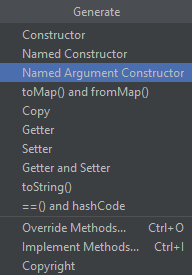
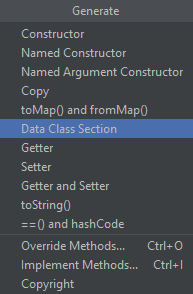
#gmxaPo7H:2 | Documentation updated for upcoming release.

Changed region(s): [[0.0, 0.0873, 1.0, 1.0], [0.75, 0.8145, 0.9688, 0.9309], [0.375, 0.0, 0.625, 0.0582]]

diff --git a/README.md b/README.md
@@ -1,16 +1,17 @@
 # Dart Data Class Plugin
 
-This plugin is created for those who would like to use `copyWith` methods and do not like to write boilerplate.
+![Usage](img/dart-data-usage.gif)
 
-Also has `toMap` and `fromMap` methods generator which is needed for Sqlite.
+This plugin is created for those who would like to have extra data manipulation methods in their data classes without having to write boilerplate code.
 
 ![ScreenShot](img/generate-menu.png)
 
 This plugin can generate the following code:
 - Named Argument Constructor
-- `copyWith`: copies the instance and overrides the given parameters *(you can name specify this method's name in the settings)*
+- `copyWith`: copies the instance and overrides the given parameters
 - `toMap`: converts your class into a map of `Map<String, dynamic>`
 - `fromMap`: constructs your class from a `Map<String, dynamic>` using the named argument constructor
+- all of the above with `toString`, `equals` (`==` operator), `hashcode`
 
 ## Example
 
@@ -26,7 +27,9 @@ class Person {
 }
 ```
 
-Using all generators of this plugin and selecting all properties, this class will look like this:
+Using all generators of this plugin and selecting all properties, this class will look like the following. 
+
+*(Note that some features of this generation can be customized, see details below.)*
 
 
 ```dart
@@ -37,14 +40,49 @@ class Person {
 
   String get name => _firstName + " " + _lastName;
 
-  Person({
-    this.id,
-    this.age,
-    String firstName,
-    String lastName,
+//<editor-fold desc="Data Methods">
+
+
+  const Person({
+    @required this.id,
+    @required this.age,
+    @required String firstName,
+    @required String lastName,
   })
       : _firstName = firstName,
         _lastName = lastName;
+
+
+  @override
+  bool operator ==(Object other) =>
+      identical(this, other) ||
+          (other is Person &&
+              runtimeType == other.runtimeType &&
+              id == other.id &&
+              _firstName == other._firstName &&
+              _lastName == other._lastName &&
+              age == other.age
+          );
+
+
+  @override
+  int get hashCode =>
+      id.hashCode ^
+      _firstName.hashCode ^
+      _lastName.hashCode ^
+      age.hashCode;
+
+
+  @override
+  String toString() {
+    return 'Person{' +
+        ' id: $id,' +
+        ' _firstName: $_firstName,' +
+        ' _lastName: $_lastName,' +
+        ' age: $age,' +
+        '}';
+  }
+
 
   Person copyWith({
     int id,
@@ -52,7 +90,14 @@ class Person {
     String lastName,
     int age,
   }) {
-    return new Person(
+    if ((id == null || identical(id, this.id)) &&
+        (firstName == null || identical(firstName, this._firstName)) &&
+        (lastName == null || identical(lastName, this._lastName)) &&
+        (age == null || identical(age, this.age))) {
+      return this;
+    }
+
+    return Person(
       id: id ?? this.id,
       firstName: firstName ?? this._firstName,
       lastName: lastName ?? this._lastName,
@@ -60,24 +105,35 @@ class Person {
     );
   }
 
-  Map<String, dynamic> toMap() {
+
+  Map<String, dynamic> toMap({
+    String keyMapper(String key),
+  }) {
+    keyMapper ??= (key) => key;
+
     return {
-      'id': this.id,
-      '_firstName': this._firstName,
-      '_lastName': this._lastName,
-      'age': this.age,
+      keyMapper('id'): this.id,
+      keyMapper('_firstName'): this._firstName,
+      keyMapper('_lastName'): this._lastName,
+      keyMapper('age'): this.age,
     };
   }
 
-  factory Person.fromMap(Map<String, dynamic> map) {
-    return new Person(
-      id: map['id'],
-      firstName: map['_firstName'],
-      lastName: map['_lastName'],
-      age: map['age'],
+  factory Person.fromMap(Map<String, dynamic> map, {
+    String keyMapper(String key),
+  }) {
+    keyMapper ??= (key) => key;
+
+    return Person(
+      id: map[keyMapper('id')],
+      firstName: map[keyMapper('_firstName')],
+      lastName: map[keyMapper('_lastName')],
+      age: map[keyMapper('age')],
     );
   }
 
+
+//</editor-fold>
 }
 ```
 
@@ -90,8 +146,15 @@ You can find additional settings under `Settings` > `Editor` > `Dart Data Class 
 - set the name of the copy method
 - use `@required` annotation
 - use `new` keyword when instantiation
+- use the `const` keyword for the constructor generation - all fields in the class have to be final
+- copy function can be specified to return the same instance. This Option has the same requirement as the const keyword. Useful when using Dart in a Redux architecture.
+- key mapper for `toMap` and `fromMap` - use your own logic to transform the keys to their original values - useful when database result returns prefixed or uppercased result
 
 
 #### Under the hood
 
 This project is built using Kotlin and makes use of IntelliJ's PSI elements for extracting the structure of the Dart file of your selection.
+
+### Known issues
+
+- If the class ends with a single-line comment, code is generated from an invalid location
